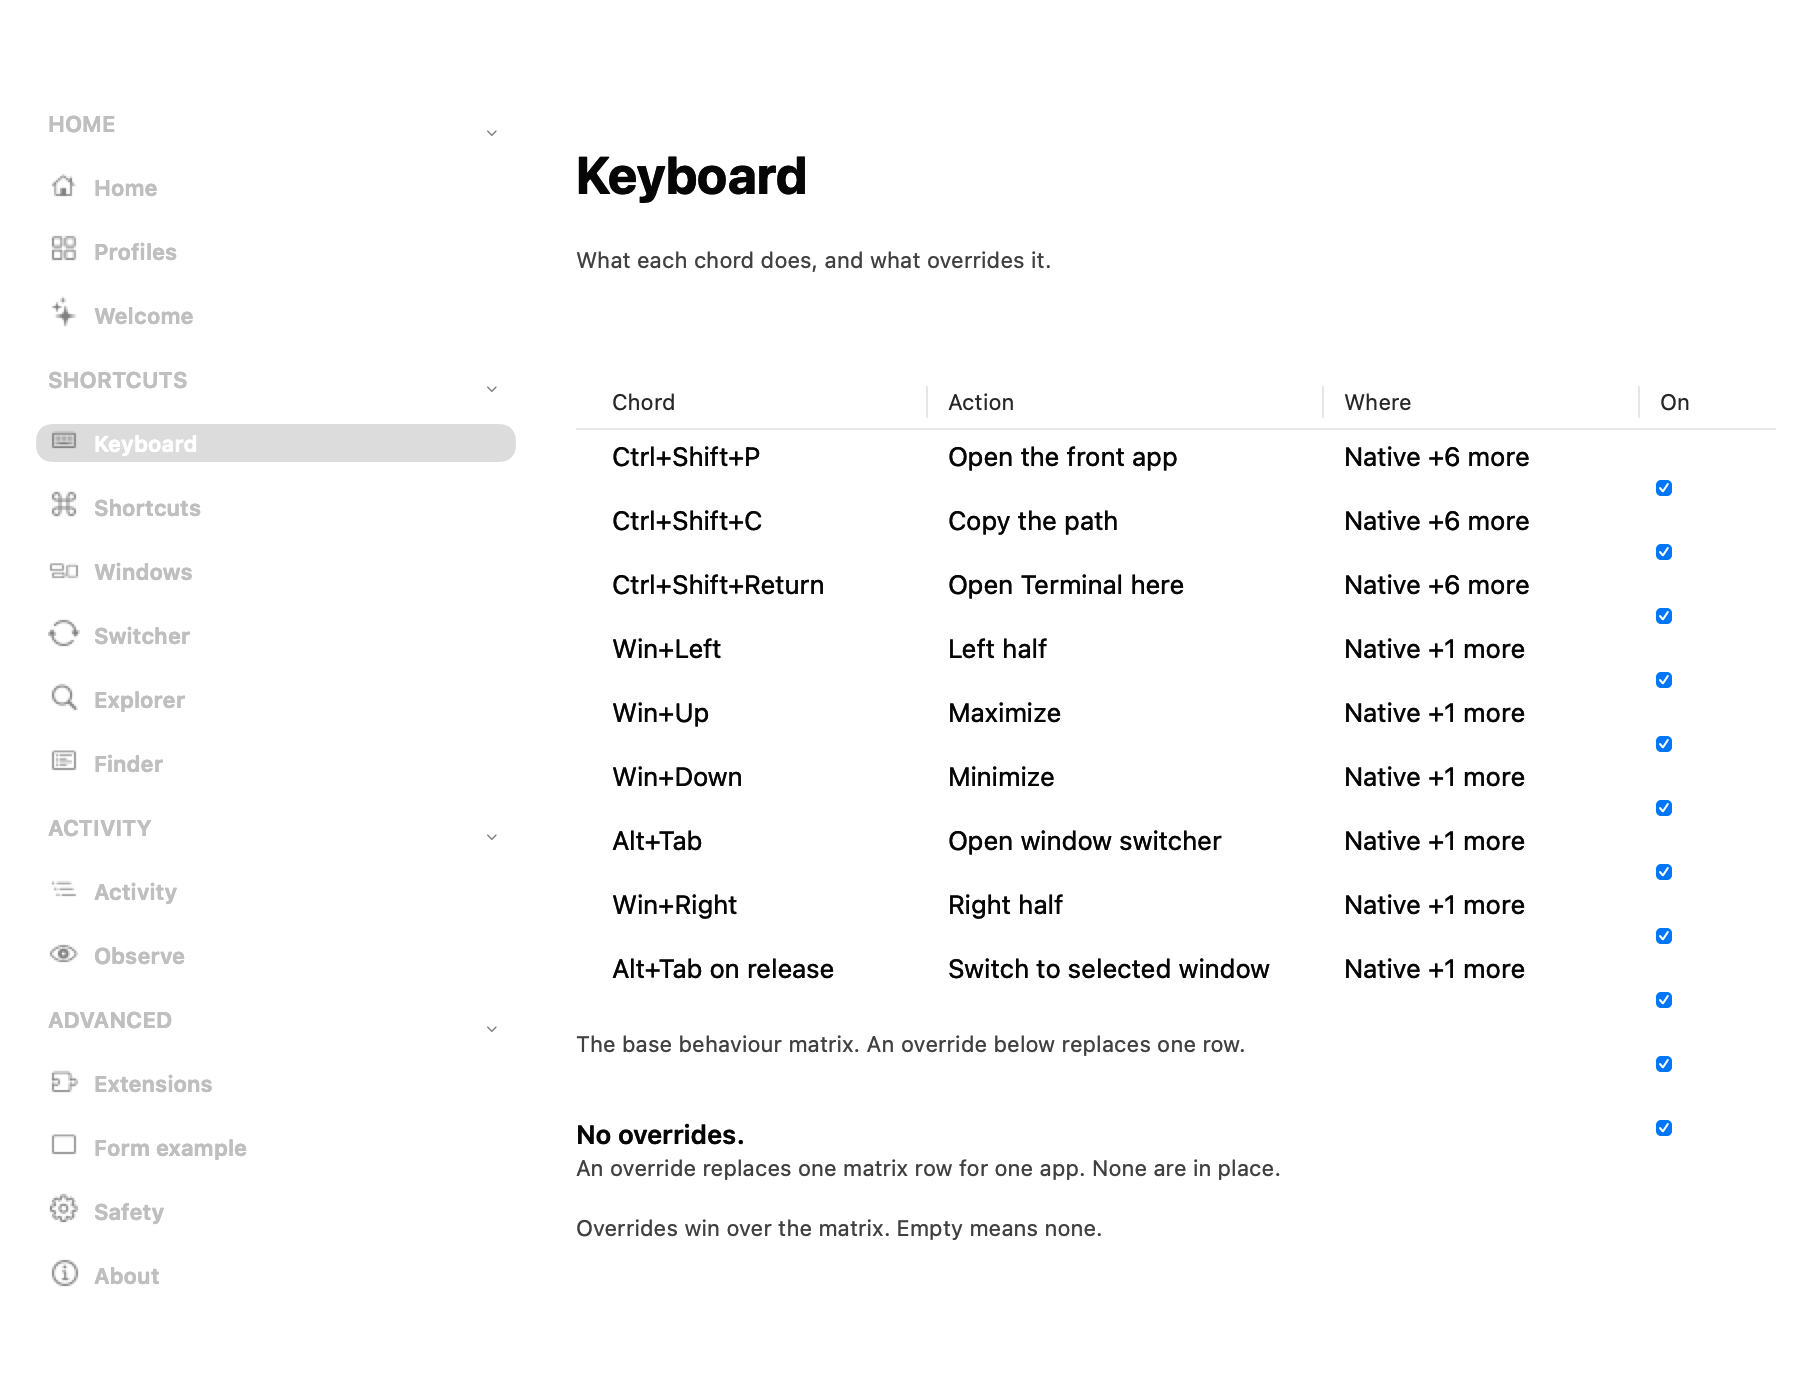
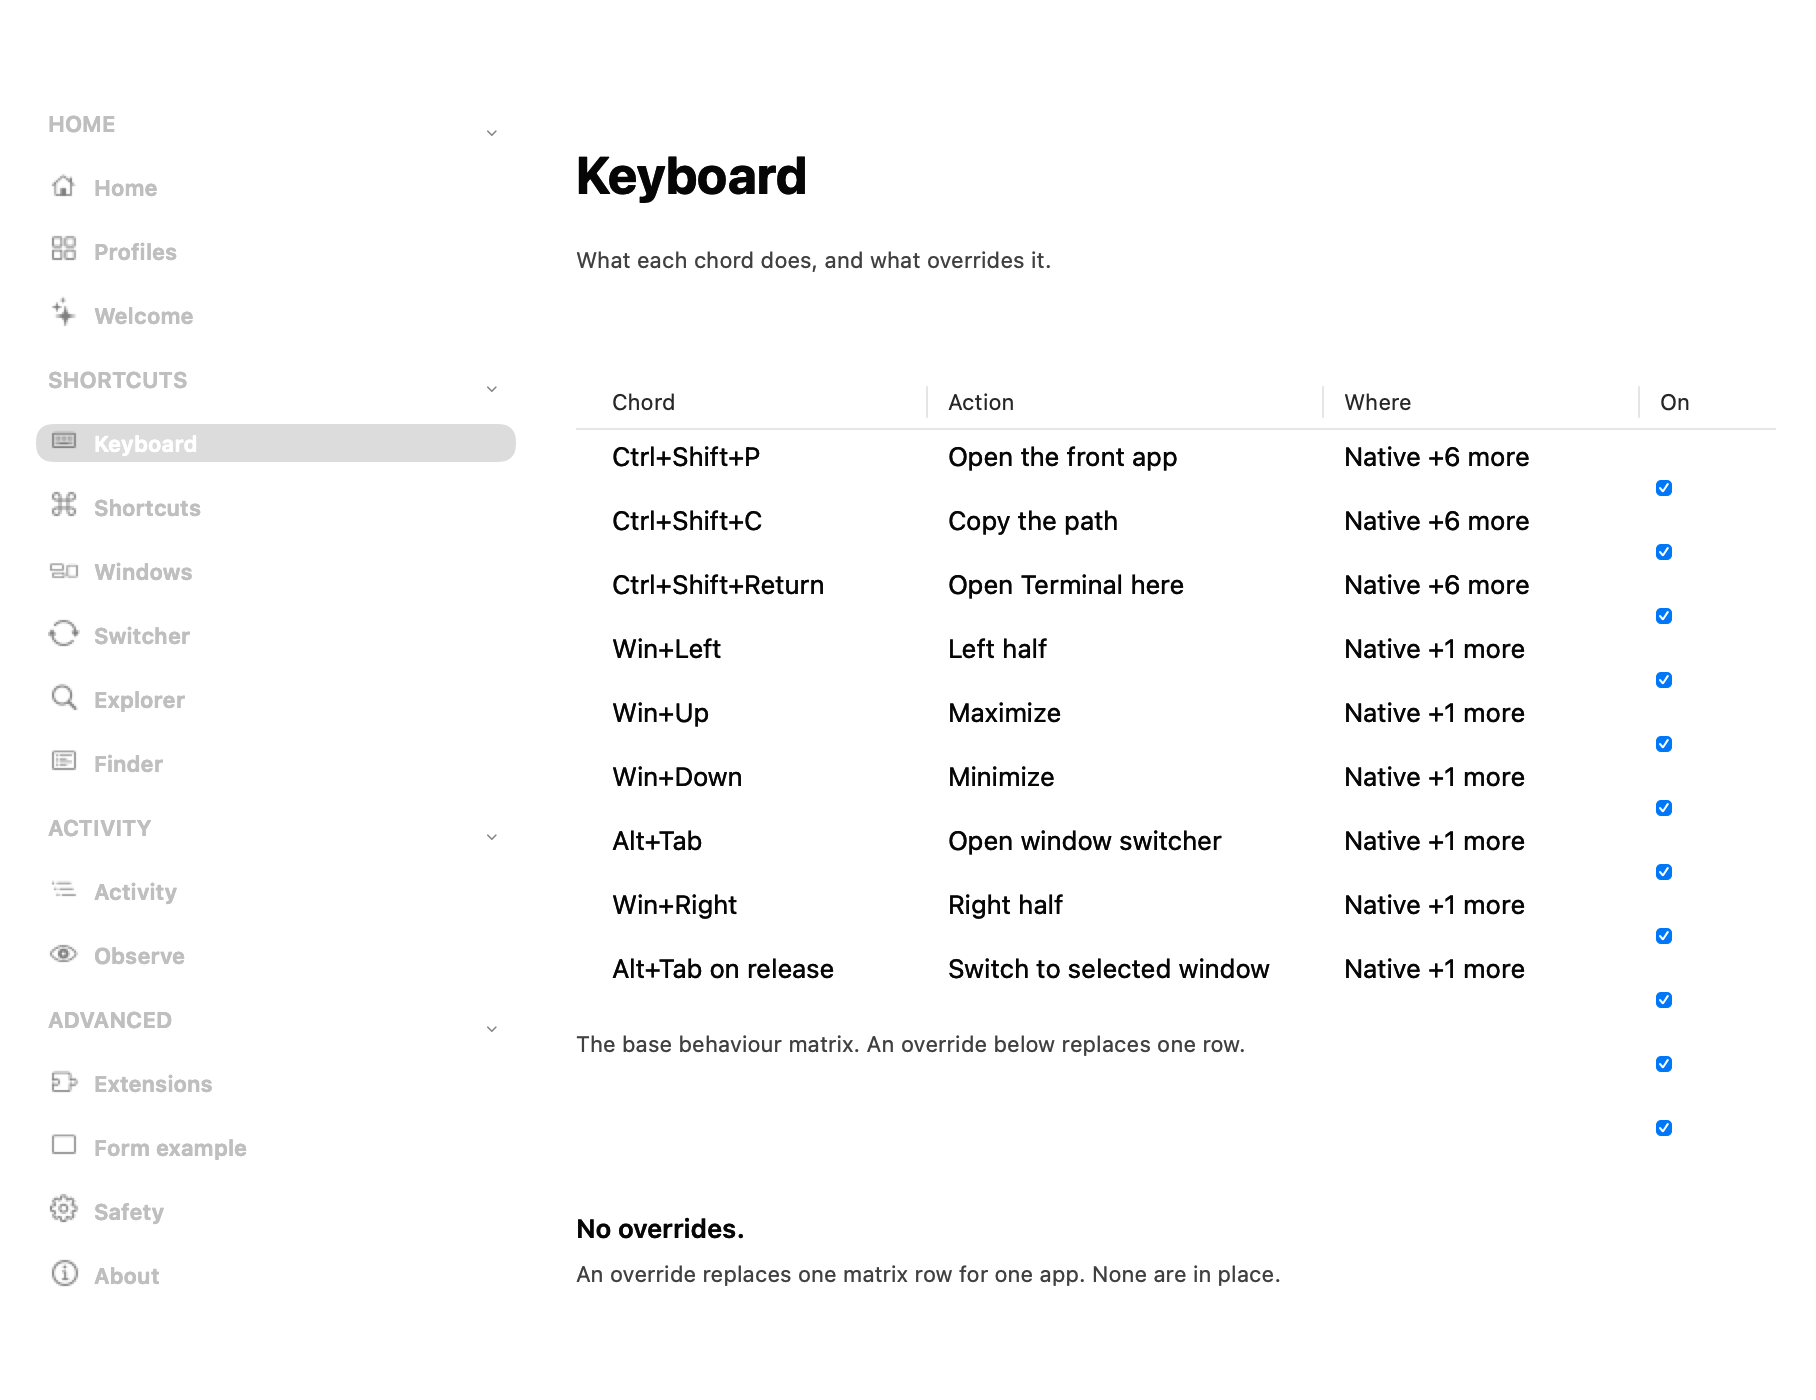
feat: empty states stop sitting at the top of an empty window
The fifth audit check, and the two changes it asked for.

**A new check: fill.** The other four ask whether what is drawn is
correct. This asks whether there is enough of it, which is the failure a
settings pane has that a form does not — a pane is a fixed-height window
and the content in it is a list that can be eleven rows or one. Measured
off the page stack's arranged subviews, the fifteen pages filled 31% to
98%: `core.activity` 31%, `core.observe` 31%, `core.profiles` 34%,
`core.switcher` 37%. Nearly half the app showed more window than
settings.

Measured off the whole view tree, as the first version did, **every page
reports 100%** — the document view is padded out to the pane on purpose so
the window can shrink, and it has a background. A check that cannot tell a
full page from an empty one is worse than no check, so it reads the stack.

**Empty states now centre.** A state inside a group stays at the group's
leading edge, which is right — a group has other rows. But a state that IS
the page was one sentence at the top of a 648pt pane with four hundred
points of window under it, which reads as a window that failed to load.
macOS centres an empty state that has the space to itself. On
`core.activity` the text now sits at y=47 and y=71 inside a 132pt state,
where it was at y=0 and y=18.

Done in `EmptyStateView` with `distribution = .gravityAreas` and
`addView(_:in: .center)`, because empty states are built three different
[…]

Changed region(s): [[0.3084, 0.7986, 0.7093, 0.9214]]

diff --git a/macos/Sources/CrossOSApp/Audit.swift b/macos/Sources/CrossOSApp/Audit.swift
@@ -280,6 +280,67 @@ enum Audit {
     /// What the real view tree says about fit: overflow, overlap, truncation.
     ///
     /// Measured after a layout pass, so the frames are the ones that ship.
+    /// How much of the pane the page's CONTENT reaches down into.
+    ///
+    /// The other four checks ask whether what is drawn is correct. This asks
+    /// whether there is enough of it, which is the failure a settings pane
+    /// has that a form does not: a pane is a fixed-height window and the
+    /// content in it is a list, so the list can be eleven rows or one — and
+    /// one row at the top of a 648pt pane reads as a broken app rather than
+    /// as a short page.
+    ///
+    /// It is a note and not a failure because the right answer is genuinely
+    /// page-specific: a page with one setting SHOULD be short, and a page
+    /// with an empty state should show the empty state in the space rather
+    /// than stretch something into it. What is worth saying out loud is the
+    /// number, because the number is what the empty state has to fill.
+    static func fillAudit(root: NSView, page: String) -> [Finding] {
+        let size = root.bounds.size
+        guard size.height > 80 else { return [] }
+
+        // The LOWEST point the page's own CONTENT reaches.
+        //
+        // Measured off the stack's arranged subviews rather than off the whole
+        // tree. The document view is padded out to the pane's height on
+        // purpose — `contentFittingHeight` exists so the window can shrink —
+        // and it has a background, so measuring the tree says every page
+        // fills 100% whether it holds a matrix or one line of text. That is
+        // what the first version of this check did, and it reported 100% for
+        // all fifteen pages including the empty ones.
+        //
+        // So: the tallest arranged subview that actually has content in it,
+        // skipping the trailing padding the stack added to fill the pane.
+        var bottom: CGFloat = 0
+        if let stack = collect(root).compactMap({ $0 as? NSStackView }).first(where: { stack in
+            stack.arrangedSubviews.contains { hasVisibleContent($0) }
+        }) {
+            for row in stack.arrangedSubviews where hasVisibleContent(row) {
+                bottom = max(bottom, row.frame.maxY)
+            }
+        } else {
+            for view in collect(root) where !isAppKitInternal(view) {
+                if view is NSScrollView || view is NSClipView { continue }
+                guard hasVisibleContent(view) else { continue }
+                bottom = max(bottom, view.frame.maxY)
+            }
+        }
+
+        let fraction = Double(bottom / size.height)
+        // 40%. Below that the majority of a 700pt pane is window background,
+        // and the page is either empty or nearly so. A settings page with one
+        // card is short and that is honest — but at 31% the reader is looking
+        // at more window than settings, which reads as a load failure.
+        guard fraction < 0.40 else { return [] }
+        return [Finding(
+            severity: .note, page: "fill",
+            what: String(format: "%@ fills %.0f%% of a %dpt pane", page, fraction * 100, Int(size.height)),
+            detail: "content stops \(Int(bottom))pt down a \(Int(size.height))pt pane, so the bottom "
+                  + "\(Int(size.height - bottom))pt is window background. If this page has an empty state, "
+                  + "the state belongs in that space rather than at the top; if it has one setting, one "
+                  + "setting in a 648pt window is short and that is honest."
+        )]
+    }
+
     static func fitAudit(root: NSView, page: String) -> [Finding] {
         var findings: [Finding] = []
         let leaves = collect(root)

diff --git a/macos/Sources/CrossOSApp/PageViewController.swift b/macos/Sources/CrossOSApp/PageViewController.swift
@@ -367,6 +367,7 @@ public final class PageViewController: NSViewController {
                     card.dropCap()
                 }
             }
+
         }
 
         stack.addArrangedSubview(pageId)
@@ -467,10 +468,28 @@ final class EmptyStateView: NSStackView {
         detailField.maximumNumberOfLines = 0
         detailField.setContentCompressionResistancePriority(.defaultLow, for: .horizontal)
 
-        addArrangedSubview(headlineField)
-        addArrangedSubview(detailField)
-        spacing = Gap.tight
-        setContentHuggingPriority(.required, for: .vertical)
+        // **`.gravityAreas`, `.center`**, which is AppKit's own way to say
+        // "put this in the middle of whatever height I get".
+        //
+        // At the fitting height the area is the whole stack and nothing moves,
+        // so a state sitting under a card title still sits directly under it.
+        // Given extra height the text lands in the middle, which is where
+        // macOS puts an empty state that has the space to itself — an empty
+        // Mail list, an empty folder, an empty search.
+        //
+        // Doing it here rather than at each call site matters because empty
+        // states are built three different ways — `replaceBody`, a bare
+        // `addArrangedSubview`, and a column literal — and the two that do not
+        // go through `replaceBody` were the two that stayed at the top.
+        //
+        // **Two things that look like they should work and do not**, both
+        // measured rather than assumed: low-hugging spacer views do nothing,
+        // because a plain `NSView` has no intrinsic content size for a
+        // hugging priority to resist — both spacers stayed at 0pt inside a
+        // 132pt state and the text stayed at its top edge.
+        distribution = .gravityAreas
+        addView(headlineField, in: .center)
+        addView(detailField, in: .center)
     }
 
     override var isFlipped: Bool { true }

diff --git a/macos/Sources/CrossOSApp/CardControl.swift b/macos/Sources/CrossOSApp/CardControl.swift
@@ -168,6 +168,25 @@ class CardControl: NSStackView {
         }
         view.translatesAutoresizingMaskIntoConstraints = false
         bodyStack.addArrangedSubview(view)
+        // An empty state is the WHOLE body, so it gets the whole body.
+        //
+        // Every card on `core.activity`, `core.profiles`, `core.observe`,
+        // `core.extensions` and `core.schemaForm` is a heading and a card
+        // whose body is one sentence saying there is nothing. Measured, those
+        // cards filled 31% to 35% of a 700pt pane: the sentence sat directly
+        // under the card's title with four hundred points of empty window
+        // underneath it, which reads as a window that failed to load rather
+        // than as a page with nothing in it.
+        //
+        // macOS centres an empty state that has the space to itself — an empty
+        // Mail list, an empty folder, an empty search — and the space here is
+        // the card. So the state is given a floor and centred inside it, and
+        // the floor is a floor rather than a fixed height, so a card that
+        // later grows content stops centring.
+        if view is EmptyStateView {
+            view.setContentHuggingPriority(.defaultLow, for: .vertical)
+            view.heightAnchor.constraint(greaterThanOrEqualToConstant: 132).isActive = true
+        }
         // Now they share an ancestor, and the constraint holds the body to
         // the card's width — which is what makes a card fill its pane rather
         // than size itself to its longest label.

diff --git a/macos/Sources/CrossOSApp/App.swift b/macos/Sources/CrossOSApp/App.swift
@@ -672,6 +672,7 @@ final class AppDelegate: NSObject, NSApplicationDelegate {
             // item is the pane a page's controls actually live in.
             guard let pageView = shell.pageController?.view else { continue }
             let found = Audit.fitAudit(root: pageView, page: page.id)
+                + Audit.fillAudit(root: pageView, page: page.id)
                 + Audit.duplicationAudit(root: pageView)
             findings += found
             // Per page, immediately. A hang on page fifteen must not cost
